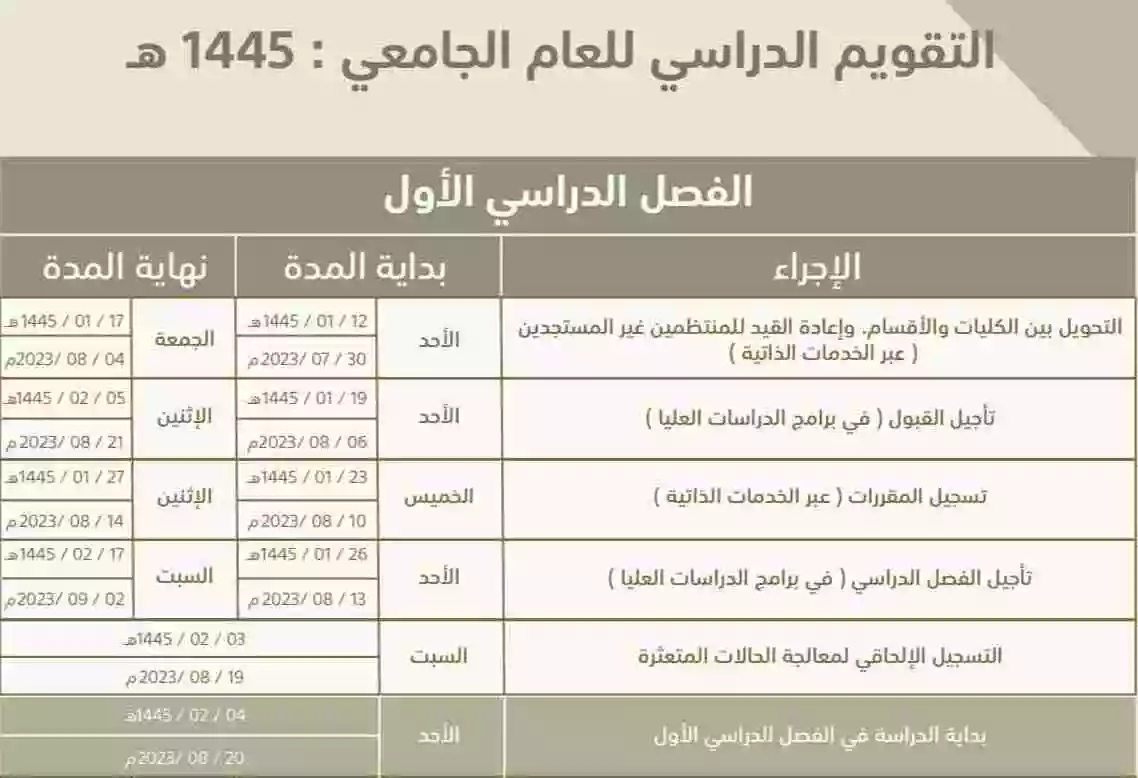
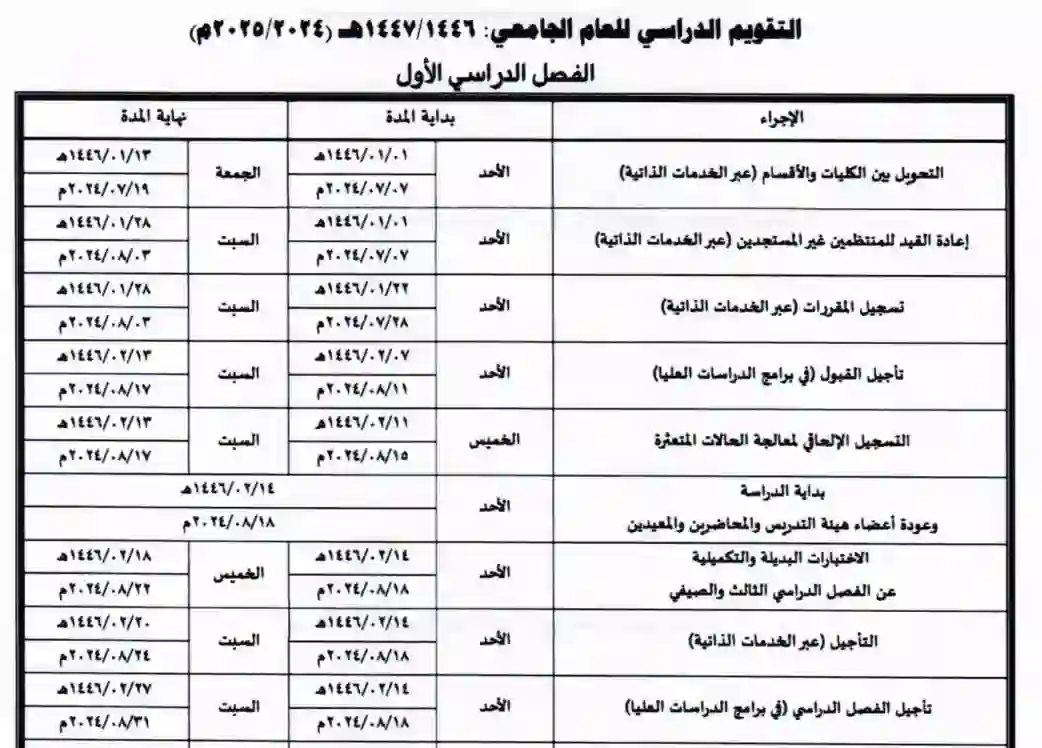
feat: Update calendar from `1445` to `1446`

diff --git a/components/SocialCard.vue b/components/SocialCard.vue
@@ -10,8 +10,8 @@
     //{ name: "ShelfCode", link: "https://chat.whatsapp.com/C4GAqsM7eKHE3ltSJYSZ85", img: "/links/shelf-code.webp" },
 
     // Others
-    { name: "تقويم الفصل الدراسي 1445", link: "https://docdro.id/m9F9FGv", img: "/links/calendar.webp" },
-    { name: "الخطط الدراسية عام 1445", link: "https://docdro.id/MBm62zW", img: "/links/courses.webp" },
+    { name: "تقويم الفصل الدراسي 1446هـ", link: "https://drive.google.com/file/d/1n-3rYVv2qR_2VWbyVpObgN2wjwXR6BQC/view", img: "/links/calendar.webp" },
+    { name: "الخطط الدراسية عام 1445هـ", link: "https://docdro.id/MBm62zW", img: "/links/courses.webp" },
     { name: "ترتيبة | رتّب موادك بضغطة زر", link: "https://trtebh.com/", img: "/links/trtebh.webp" },
     { name: "Box", link: "https://app.box.com/s/wlrcpuv7bm0qqvxjwx67dj9taaadfhl2", img: "/links/box.jpeg" },
     { name: "تقييم", link: "https://unirate.xyz/", img: "/links/unirate.png" }
